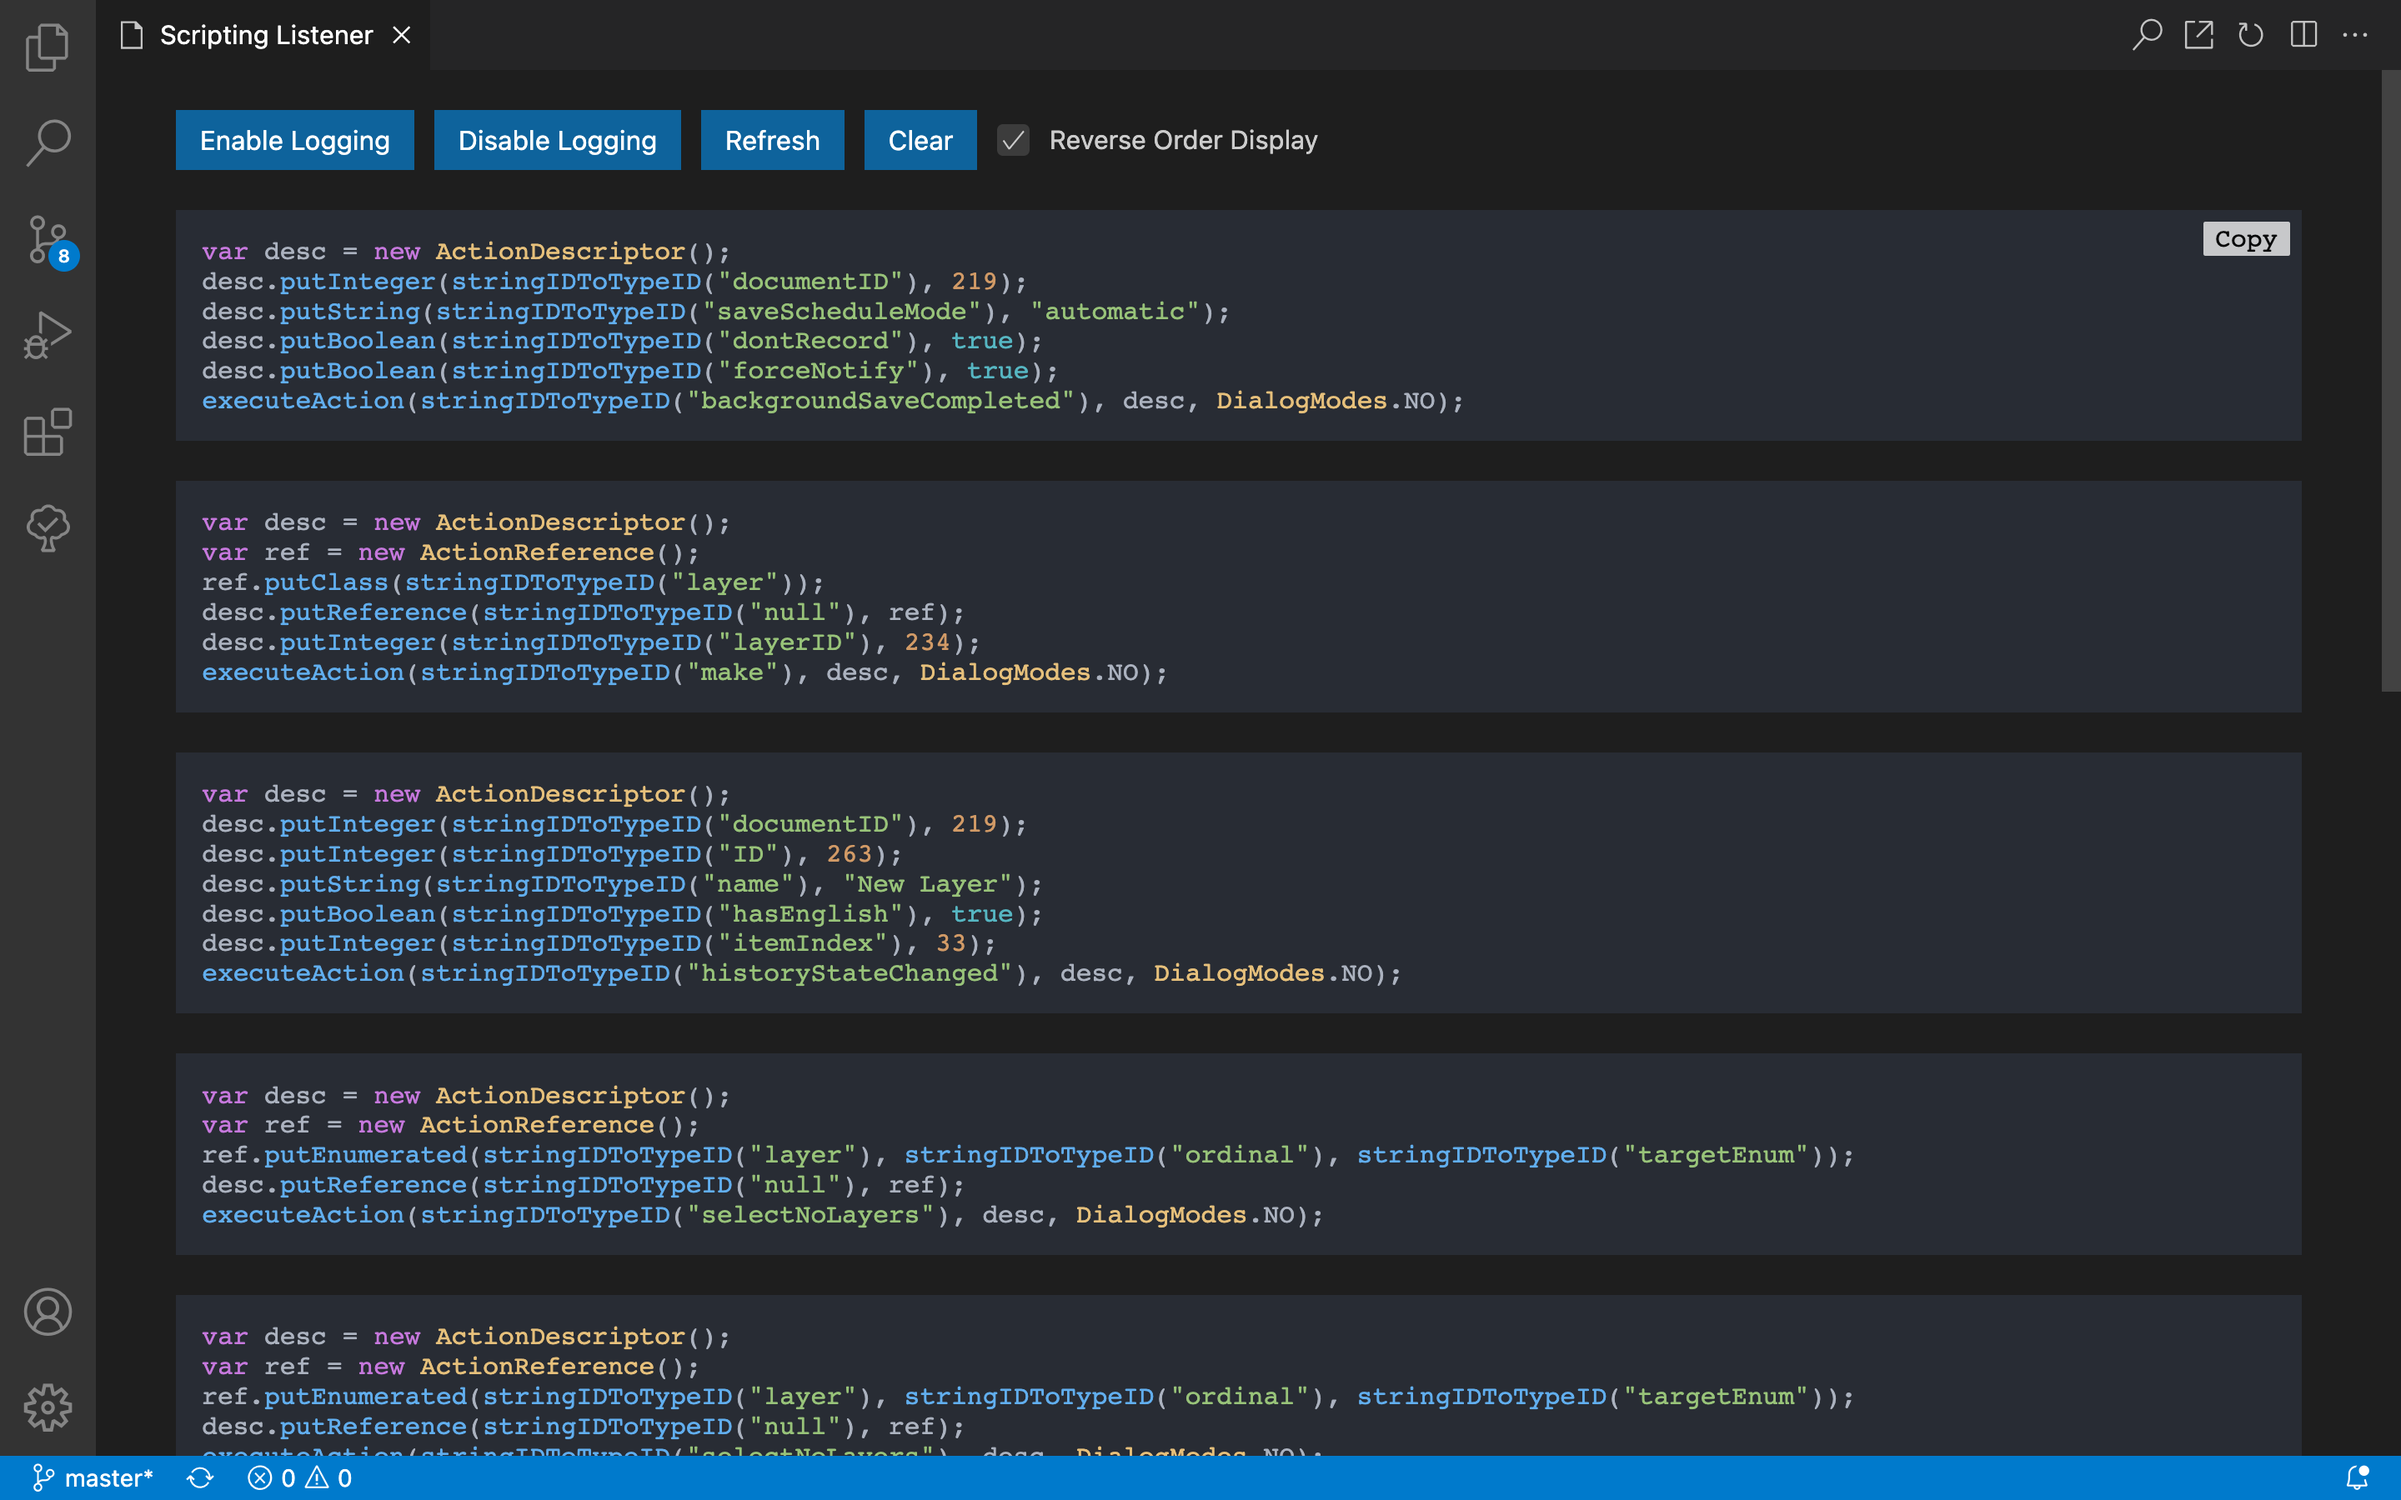
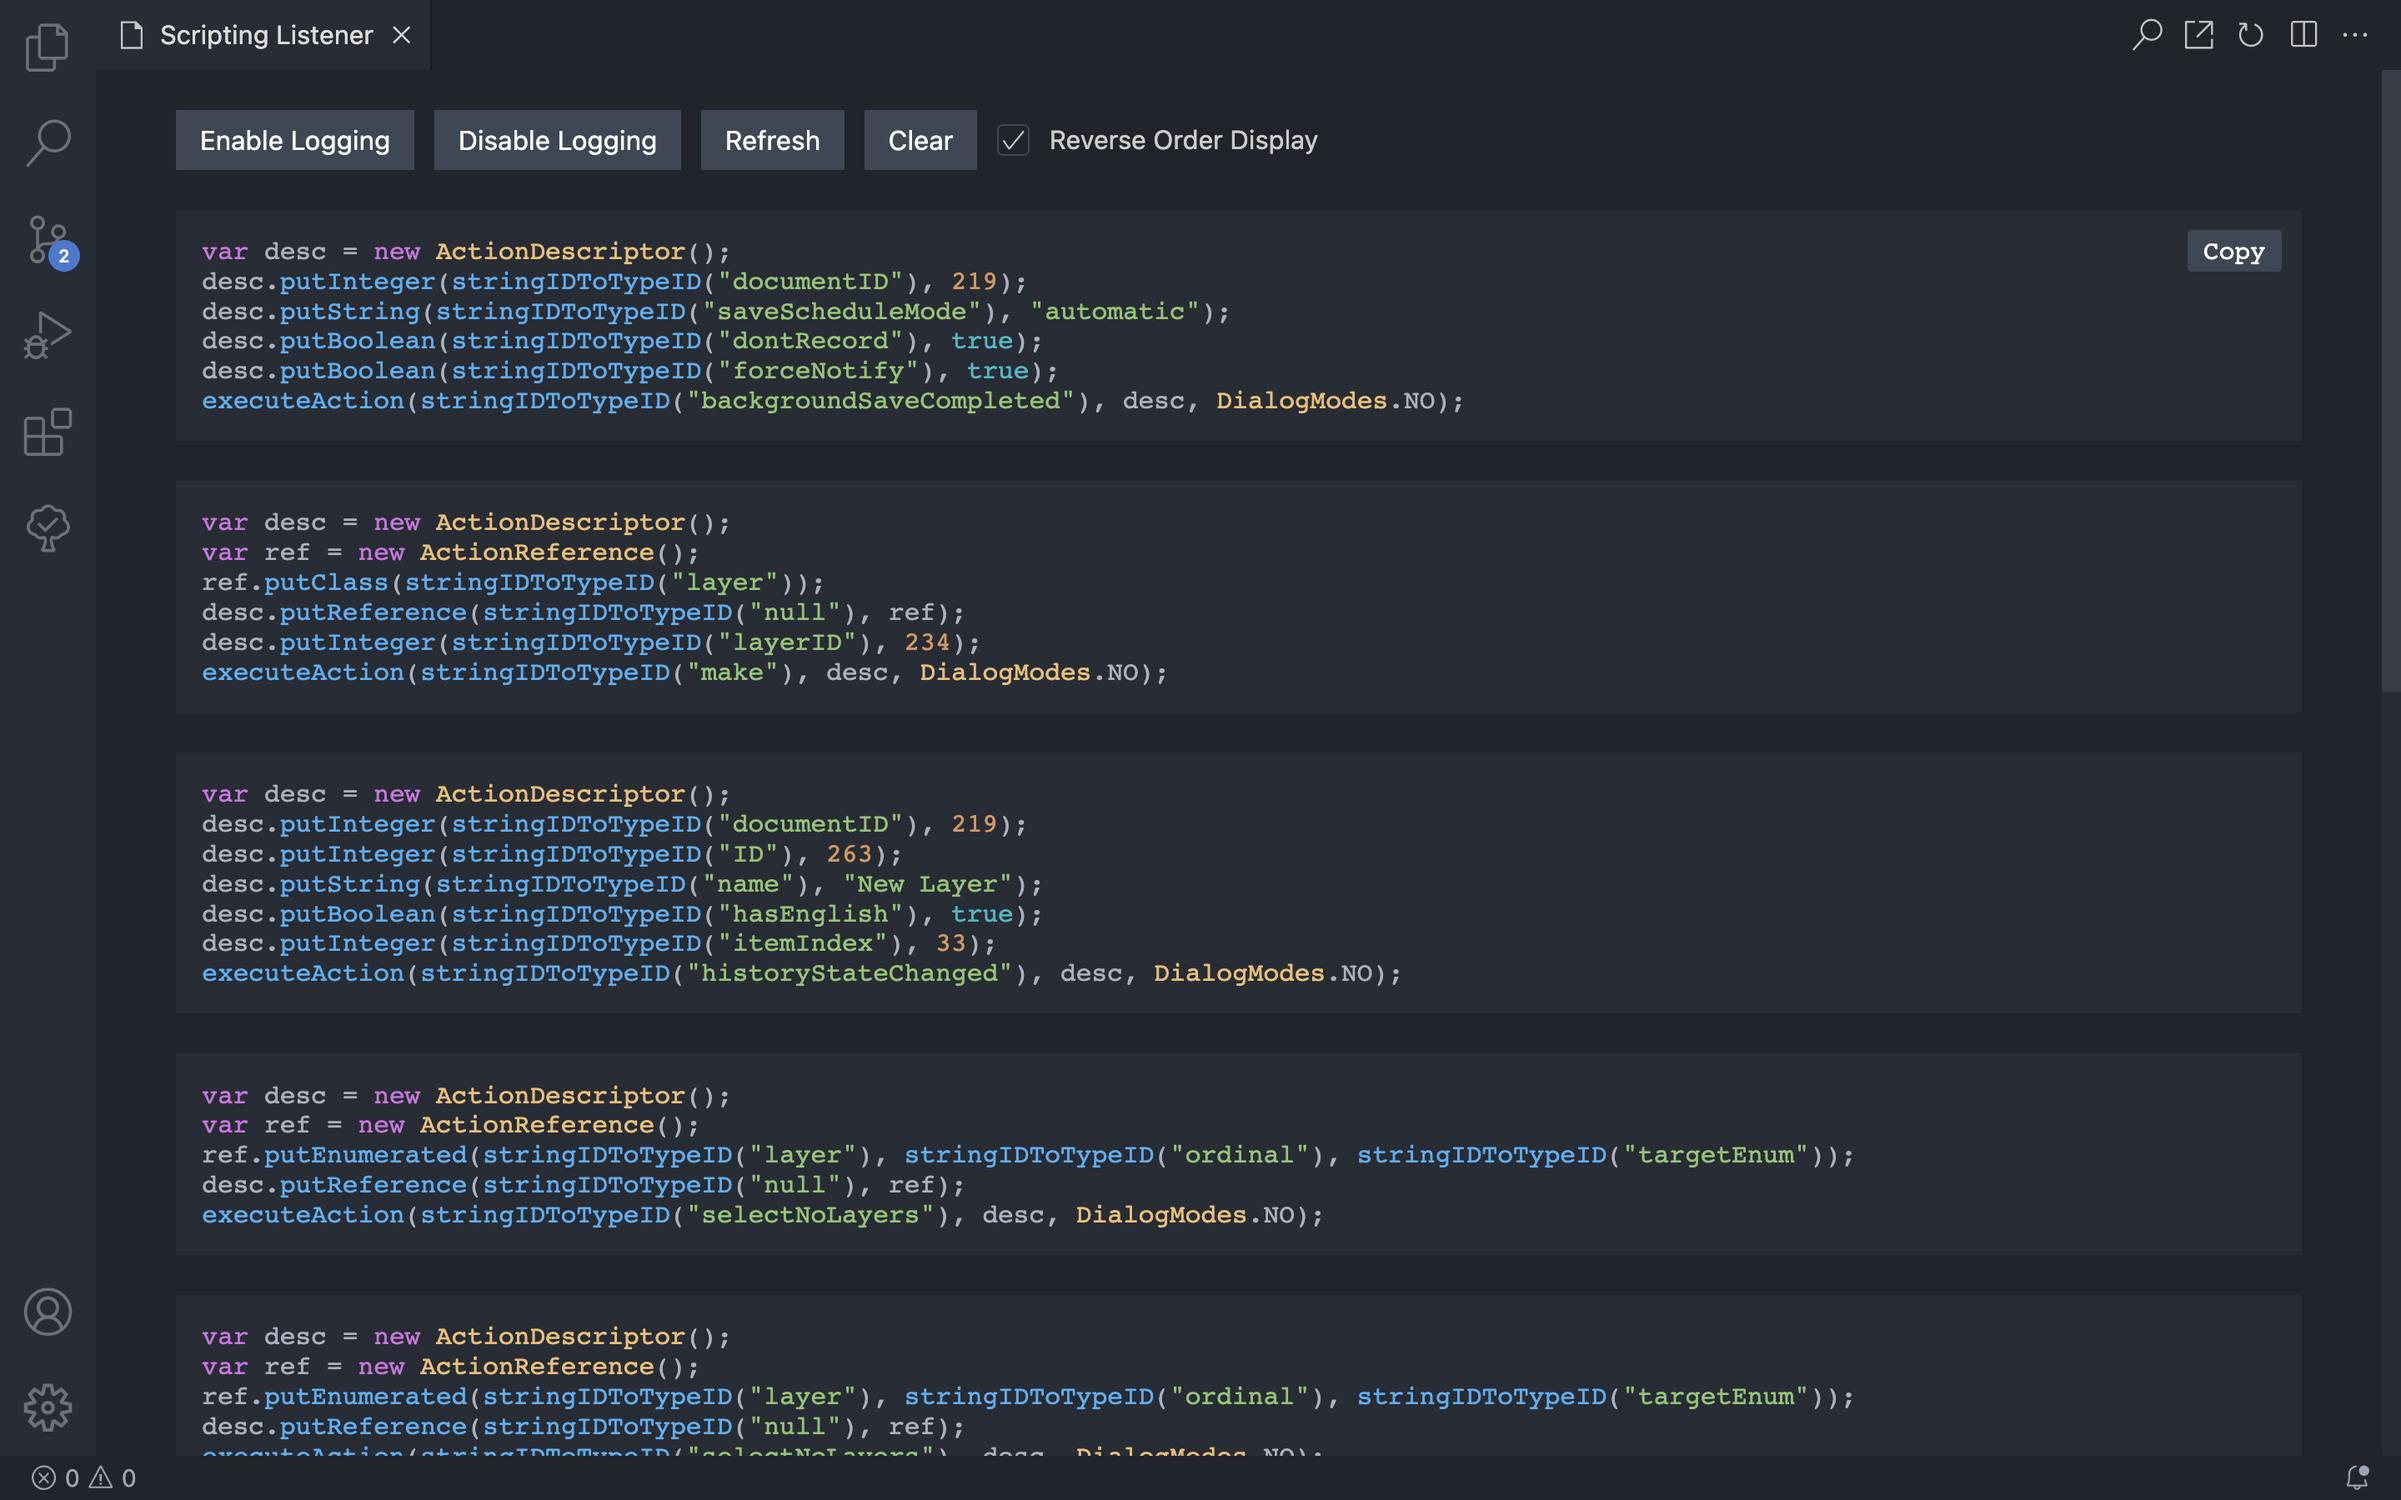
style: copy button and background

diff --git a/web/components/syntaxHighlighter/style.less b/web/components/syntaxHighlighter/style.less
@@ -6,28 +6,25 @@
 
     &:hover {
         .copy {
-            opacity: 0.8;
+            opacity: 1;
         }
     }
 
     .copy {
         position: absolute;
-        top: 6px;
-        right: 6px;
+        top: 10px;
+        right: 10px;
+        padding: 3px 8px;
+        color: white;
         cursor: pointer;
+        background-color: #404754;
         border: 0;
-        border-radius: 1px;
+        border-radius: 2px;
         opacity: 0;
         transition: opacity 0.15s ease-in-out;
 
         &:active {
-            background-color: #bbb;
+            background-color: transparent;
         }
-    }
-}
-
-body[data-vscode-theme-name='One Dark Pro'] {
-    .syntax-highlighter {
-        border: 1px solid #ccc;
     }
 }

diff --git a/web/index.less b/web/index.less
@@ -5,6 +5,10 @@ body {
     padding: 0 20px;
 }
 
+body[data-vscode-theme-name='One Dark Pro'] {
+    background-color: rgb(33, 37, 43);
+}
+
 .viewer {
     .code-block {
         //
